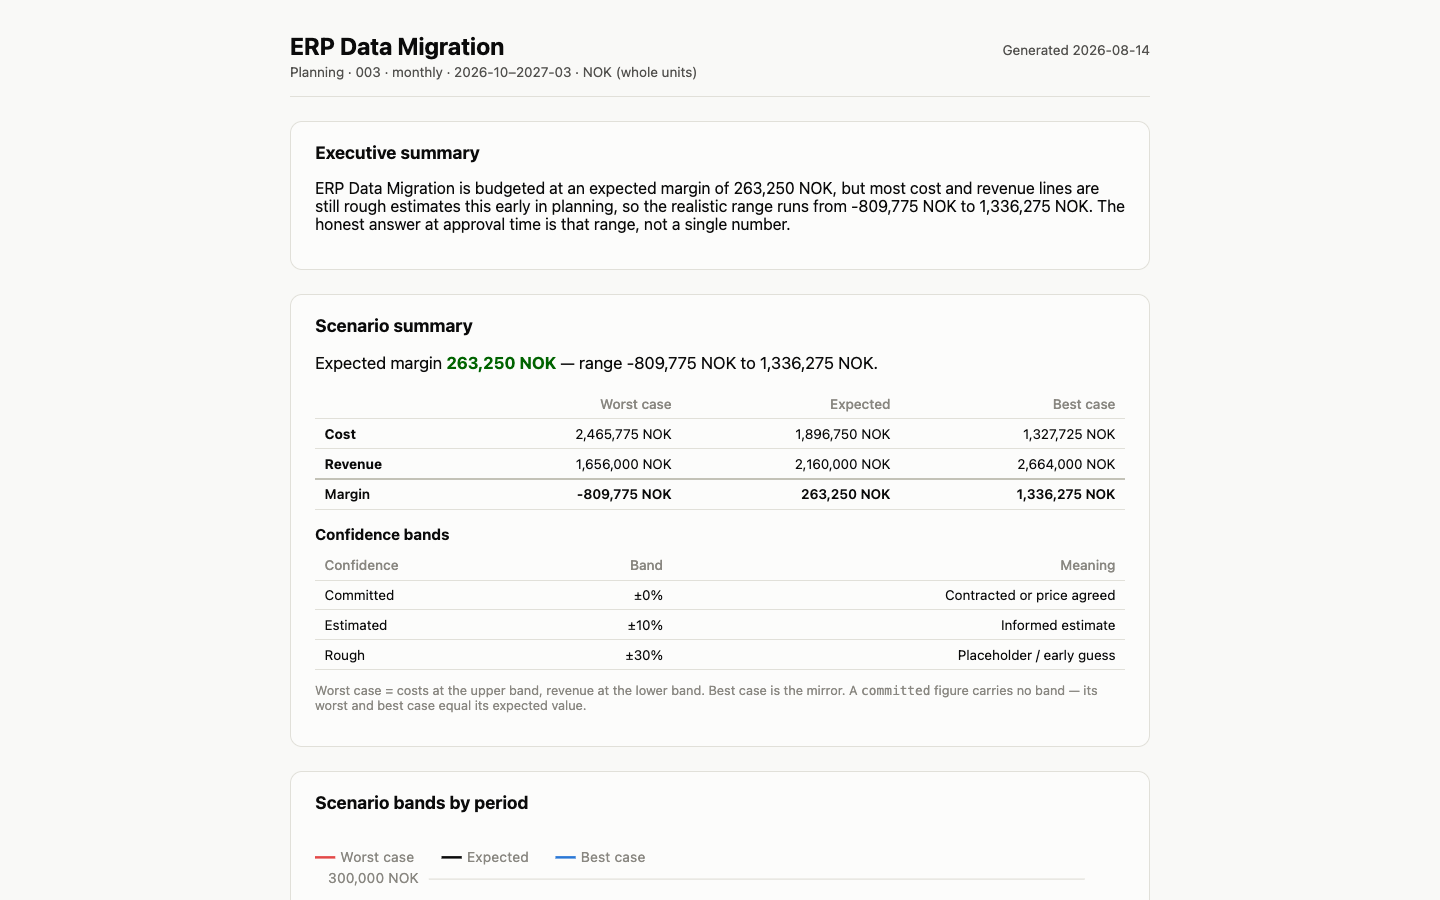
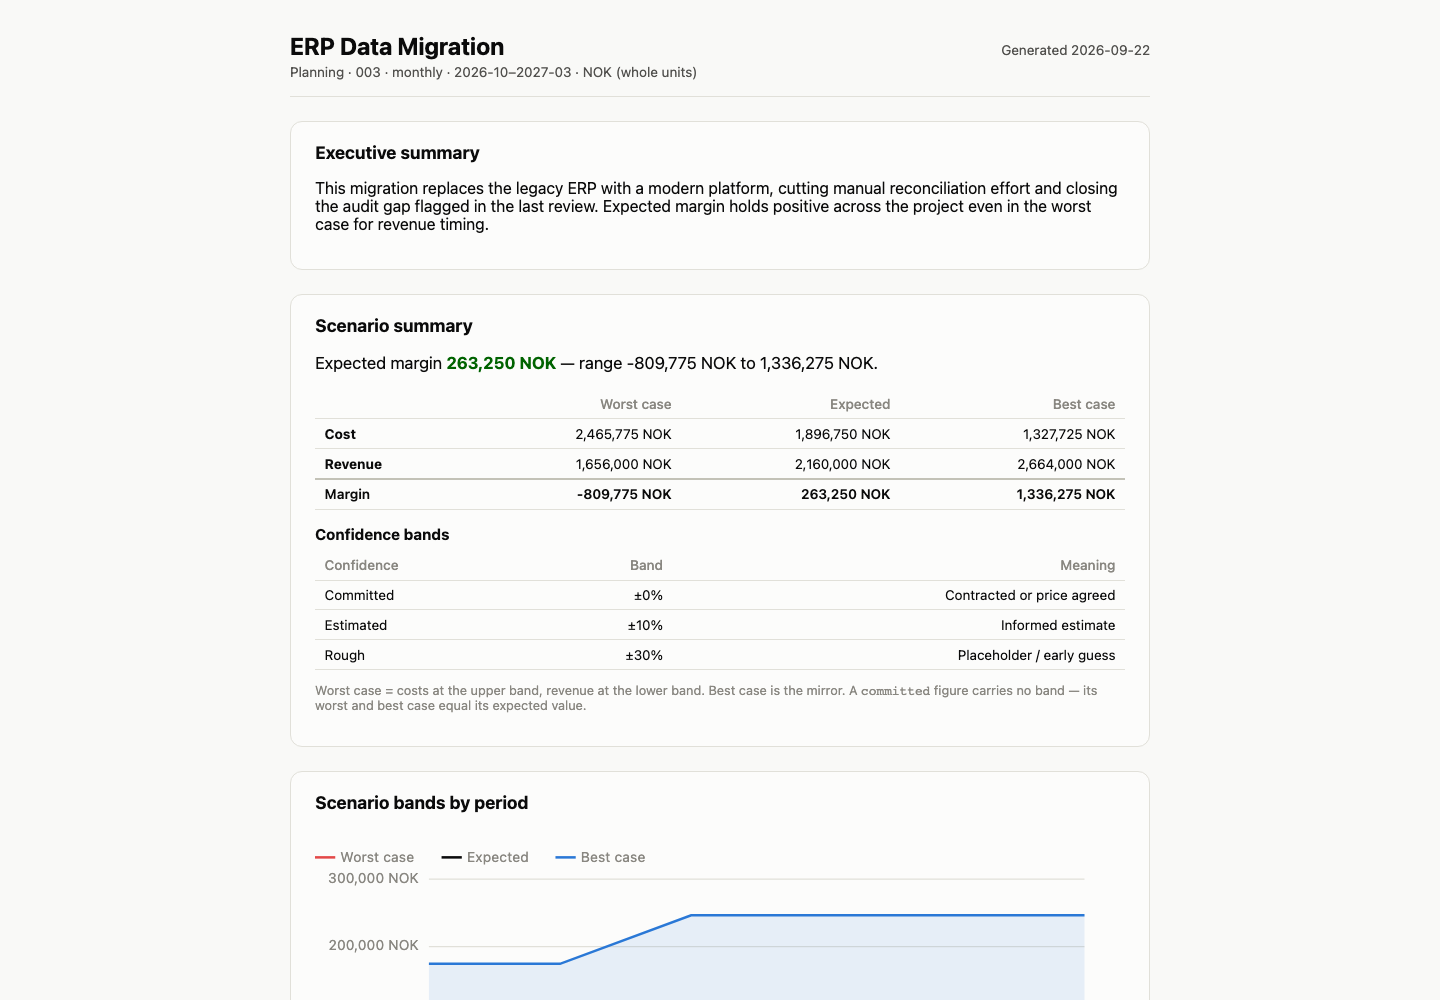
Refresh README screenshots and docs for design system + Settings/Edit
Screenshots predated the Precision Editorial Finance rollout and Phase
C/D features; regenerate against a production build and add a note
about the in-app Settings overrides.

diff --git a/README.md b/README.md
@@ -91,7 +91,10 @@ pnpm build           # static export to out/ — no server, no API routes
   layer over deterministic scenario math (`src/engine/scenarios.ts`) and variance/projection-to-
   complete tracking (`src/engine/variance.ts`).
 - **Config, not code, for anything org-specific.** Category mappings, rate cards, loaded-cost
-  multipliers, currency, and confidence-band percentages live in `config/`, never hardcoded.
+  multipliers, currency, and confidence-band percentages live in `config/`, never hardcoded. The
+  in-app Settings page lets a Planner tune rate cards, multipliers, and confidence bands per
+  deployment; edits are stored as overrides merged over the bundled config at read time, so
+  `config/` itself stays untouched.
 - **AI at the edges only.** Claude never computes a number that ends up in app output — see "How it
   works" above and `CLAUDE.md`.
 - **Self-contained export.** `src/export/` is a separate, hand-rolled SVG/HTML generator (not
